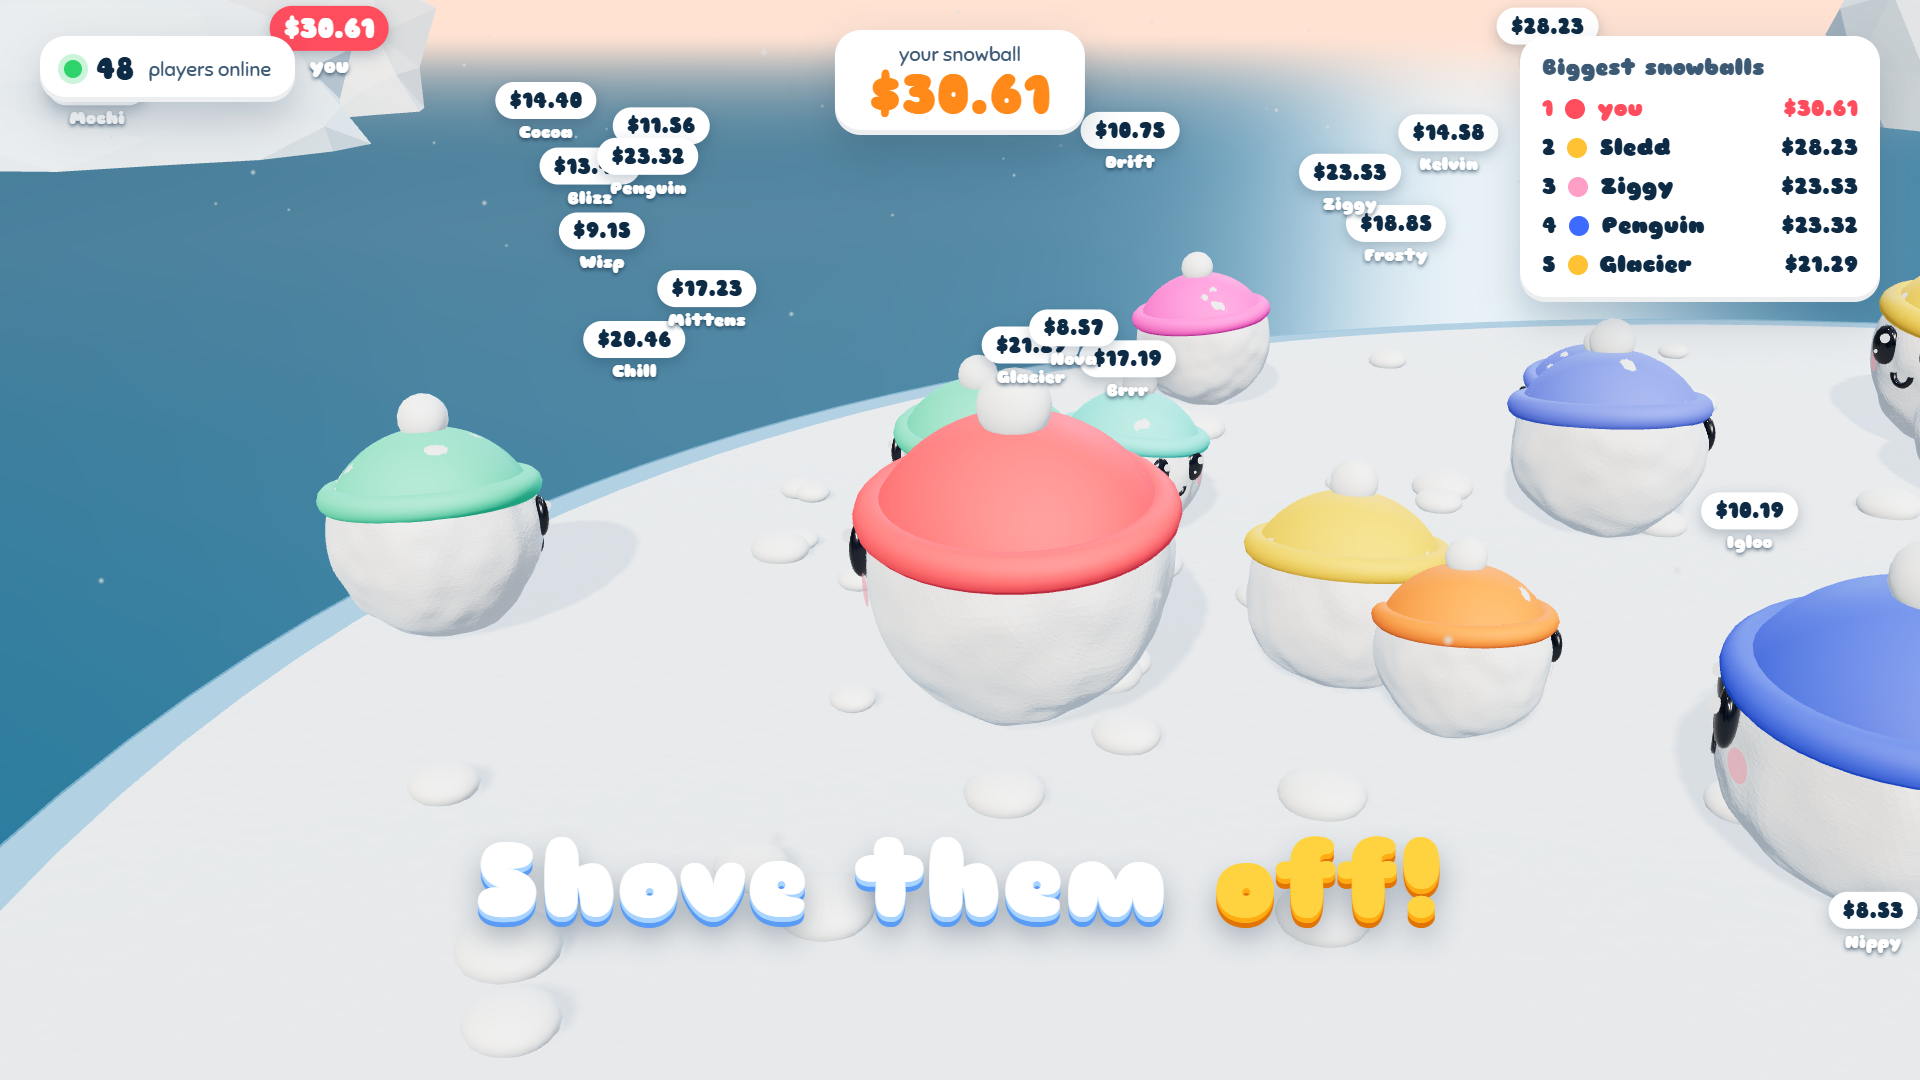
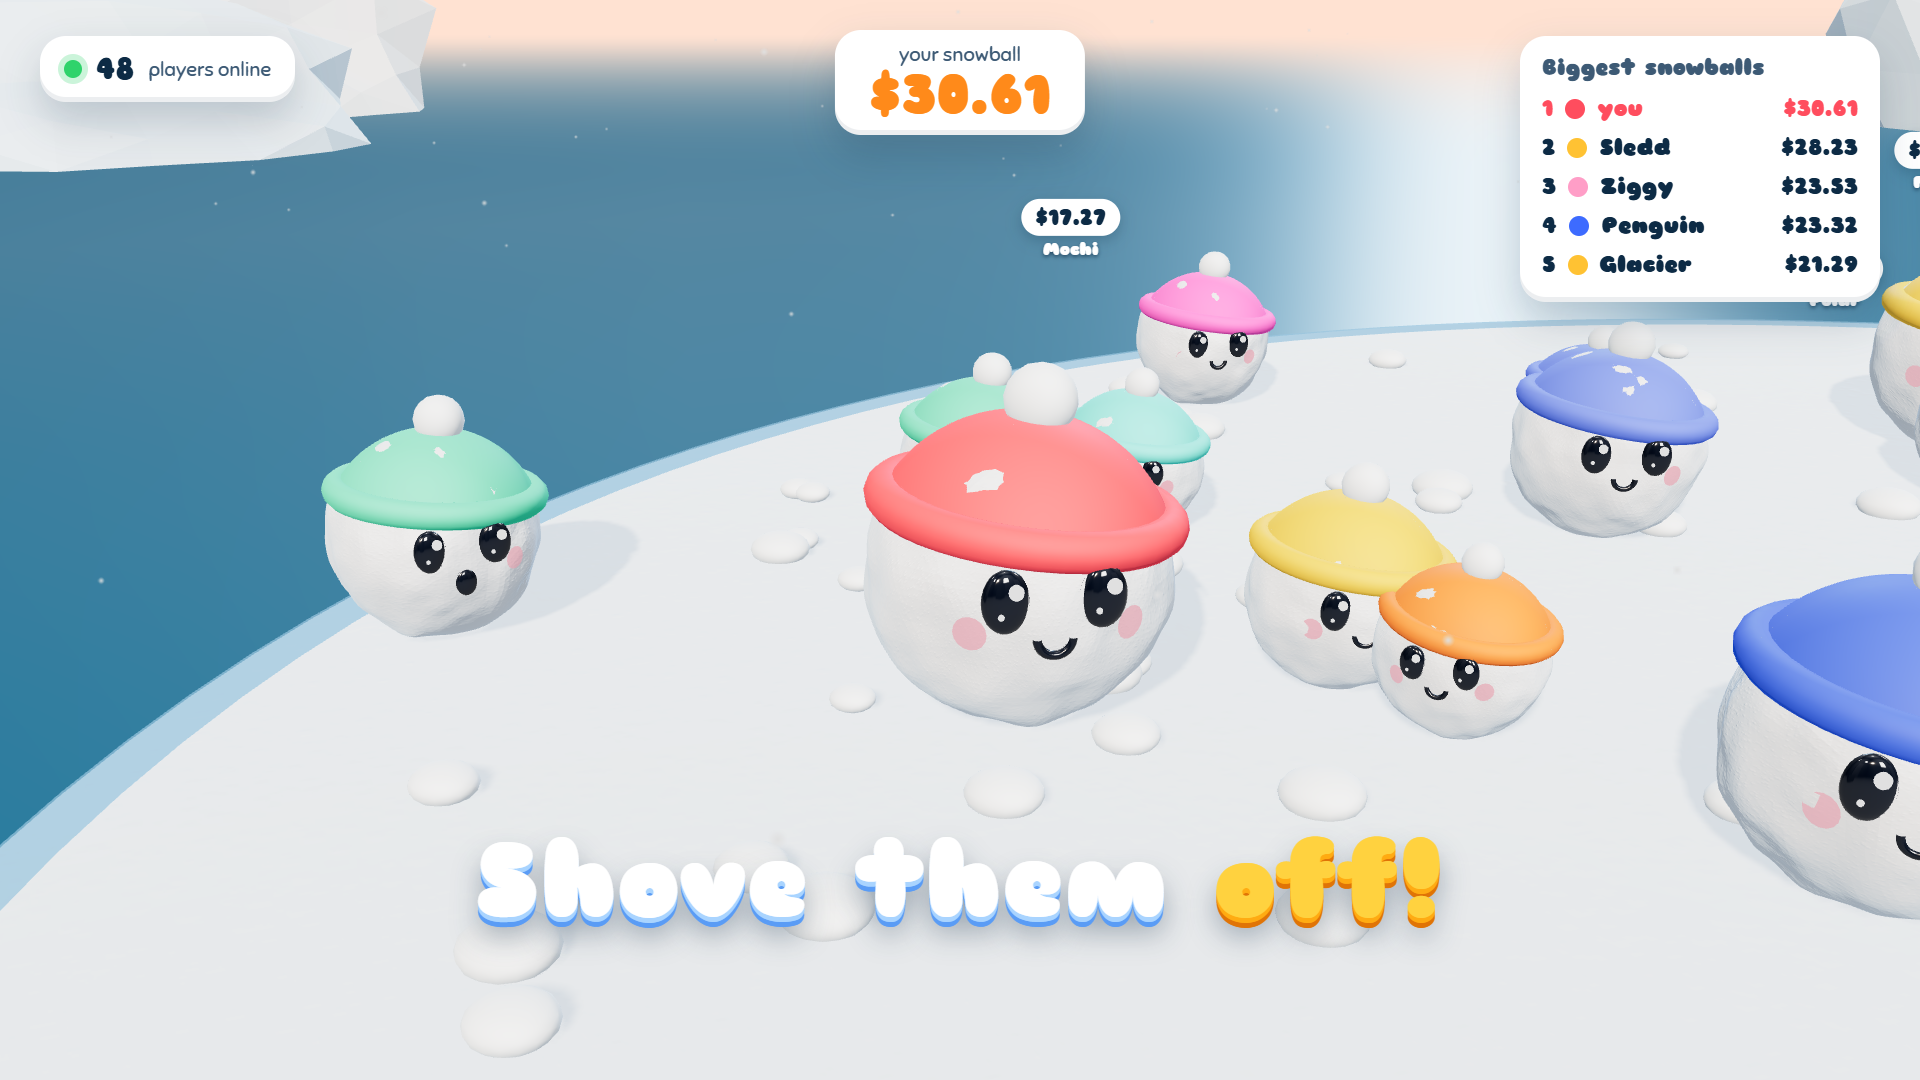
Snowfight film: faces toward camera, camera computed first, clean cash-out

diff --git a/video/film.html b/video/film.html
@@ -122,9 +122,18 @@ window.renderAt = (t) => {
   FR = FMAX - eio(lin(t, 19.2, 23.2)) * 9; floe.scale.set(FR, 1, FR);
   // piles: the ones you roll over vanish
   const me = mePos(t);
+  // ---- camera
+  let cp, ct;
+  if (t < 3.4) { const k = eio(lin(t, 0, 3.4)); cp = [Math.sin(k * .7 - .35) * 20, 7 + k * 4, Math.cos(k * .7 - .35) * 20 + 2]; ct = [0, 1.2, 1]; }
+  else if (t < 7.6) { const k = eio(lin(t, 3.4, 7.6)); cp = [lerp(Math.sin(.35) * 20, 0, k), lerp(11, 24, k), lerp(Math.cos(.35) * 20 + 2, 36, k)]; ct = [0, lerp(1.2, 0, k), lerp(1, -3, k)]; }
+  else if (t < 23.4) { const r = meR(t), sl = t > 14.9 && t < 16.2 ? .75 : 1; const off = [lerp(0, -8, lin(t, 14.2, 15.2)) * (t < 17 ? 1 : 1 - lin(t, 17, 18.5)), 5 + r * 2.2, 12 + r * 3.6];
+    const k0 = eio(lin(t, 7.6, 8.8)); const tgt = [me[0], 0, me[1] - 2]; cp = [lerp(0, me[0] + off[0], k0), lerp(24, off[1], k0), lerp(36, me[1] + off[2], k0)]; ct = [lerp(0, tgt[0], k0), lerp(0, r * .8, k0), lerp(-3, tgt[2], k0)];
+    if (t > 19.2) { const k = eio(lin(t, 19.2, 20.4)) * (1 - eio(lin(t, 22.6, 23.4))); cp = [lerp(cp[0], 0, k), lerp(cp[1], 30, k), lerp(cp[2], 32, k)]; ct = [lerp(ct[0], 0, k), lerp(ct[1], 0, k), lerp(ct[2], -3, k)]; } }
+  else { const r = meR(t), a = (t - 23.4) * .32 + .2; cp = [me[0] + Math.sin(a) * (11 + r * 3.5), 3.4 + r * 1.5, me[1] + Math.cos(a) * (11 + r * 3.5)]; ct = [me[0], r * 1.15, me[1]]; }
+  cam.position.set(...cp); cam.lookAt(...ct);
   PL.forEach((p, i) => { if (t > 7.6 && t < 14.2 && Math.hypot(p.x - me[0], p.z - me[1]) < meR(t) + .4 && p.gone > t) p.gone = t; });
   const dm = new THREE.Object3D(); PL.forEach((p, i) => { const s = p.gone <= t ? 0 : (Math.hypot(p.x, p.z) > FR - 1 ? 0 : p.s); dm.position.set(p.x, .12, p.z); dm.scale.set(s, s * .55, s); dm.updateMatrix(); piles.setMatrixAt(i, dm.matrix); }); piles.instanceMatrix.needsUpdate = true;
-  // players
+  // players (faces turn toward last frame's camera)
   let online = 0; const live = [];
   for (const o of P) { const g = o.g; let x, z, yaw, r = o.r0, y, vis = t >= o.join - .5, fallK = 0;
     if (o === ME) { [x, z, yaw] = me; r = meR(t); }
@@ -139,25 +148,17 @@ window.renderAt = (t) => {
     else y = lerp(18, 0, jk * jk);
     if (DROP.includes(o) && t >= 3.4 && t < o.join - .5) { vis = true; y = 0; }
     const land = DROP.includes(o) && t < 3.4 ? lin(t, .9 + DROP.indexOf(o) * .25, 1.3 + DROP.indexOf(o) * .25) : lin(t, o.join + .25, o.join + .6), sq = land > 0 && land < 1 ? Math.sin(land * Math.PI) * .22 : 0;
-    y += r * .95 - fallK * fallK * 9; g.visible = vis && fallK < 1; g.position.set(x, y, z); g.rotation.set(0, yaw, fallK * 2.2); g.scale.set(r * (1 + sq), r * (1 - sq), r * (1 + sq));
+    y += r * .95 - fallK * fallK * 9; g.visible = vis && fallK < 1; g.position.set(x, y, z); g.rotation.set(0, Math.atan2(cam.position.x - x, cam.position.z - z) + Math.sin(t * 1.3 + o.ph) * .25, fallK * 2.2); g.scale.set(r * (1 + sq), r * (1 - sq), r * (1 + sq));
     g.userData.spin.rotation.x = t * (o === ME ? 3 : o.sp * 2.4); g.userData.oh.visible = fallK > 0 || (o === VIC && t > 14.8); g.userData.smile.visible = !g.userData.oh.visible;
     if (g.visible && !fallK && t >= o.join) { online++; live.push({ o, r }); }
     // name + price tag
     const v = new THREE.Vector3(x, y + r * 2.15, z).project(cam), on = g.visible && v.z < 1 && Math.abs(v.x) < 1.05 && Math.abs(v.y) < 1.05 && t > 3.2;
-    o.tag.style.display = on ? '' : 'none'; if (on) { o.tag.style.transform = `translate(${(v.x * .5 + .5) * W}px,${(-v.y * .5 + .5) * H}px) translate(-50%,-100%)`; o.tag.firstChild.textContent = money(r); } }
+    const onT = on && (t < 23.4 || o === ME); o.tag.style.display = onT ? '' : 'none'; if (on) { o.tag.style.transform = `translate(${(v.x * .5 + .5) * W}px,${(-v.y * .5 + .5) * H}px) translate(-50%,-100%)`; o.tag.firstChild.textContent = money(r); } }
   // splash ring where Mochi went in
   splash.visible = t > 15.9 && t < 18.5; if (splash.visible) { const k = lin(t, 15.9, 18.5); splash.scale.setScalar(1 + k * 5); splash.material.opacity = .8 * (1 - k); }
   drops.forEach((d) => { const k = lin(t, 15.9, 17.3); d.m.visible = k > 0 && k < 1; d.m.position.set(-24.5 + d.vx * k * 4, -1.2 + d.vy * Math.sin(k * Math.PI) * 4, -18.6 + d.vz * k * 4); });
   confetti.forEach((c) => { const k = lin(t, 26.3 + c.d, 28.2 + c.d); c.m.visible = k > 0 && k < 1; const mp = mePos(t); c.m.position.set(mp[0] + c.vx * k * 6, 2 + c.vy * k * 9 - k * k * 12, mp[1] + c.vz * k * 6); c.m.rotation.set(k * 9 * c.vx, k * 7, k * 5); });
-  // ---- camera
-  let cp, ct;
-  if (t < 3.4) { const k = eio(lin(t, 0, 3.4)); cp = [Math.sin(k * .7 - .35) * 20, 7 + k * 4, Math.cos(k * .7 - .35) * 20 + 2]; ct = [0, 1.2, 1]; }
-  else if (t < 7.6) { const k = eio(lin(t, 3.4, 7.6)); cp = [lerp(Math.sin(.35) * 20, 0, k), lerp(11, 24, k), lerp(Math.cos(.35) * 20 + 2, 36, k)]; ct = [0, lerp(1.2, 0, k), lerp(1, -3, k)]; }
-  else if (t < 23.4) { const r = meR(t), sl = t > 14.9 && t < 16.2 ? .75 : 1; const off = [lerp(0, -8, lin(t, 14.2, 15.2)) * (t < 17 ? 1 : 1 - lin(t, 17, 18.5)), 5 + r * 2.2, 12 + r * 3.6];
-    const k0 = eio(lin(t, 7.6, 8.8)); const tgt = [me[0], 0, me[1] - 2]; cp = [lerp(0, me[0] + off[0], k0), lerp(24, off[1], k0), lerp(36, me[1] + off[2], k0)]; ct = [lerp(0, tgt[0], k0), lerp(0, r * .8, k0), lerp(-3, tgt[2], k0)];
-    if (t > 19.2) { const k = eio(lin(t, 19.2, 20.4)) * (1 - eio(lin(t, 22.6, 23.4))); cp = [lerp(cp[0], 0, k), lerp(cp[1], 30, k), lerp(cp[2], 32, k)]; ct = [lerp(ct[0], 0, k), lerp(ct[1], 0, k), lerp(ct[2], -3, k)]; } }
-  else { const r = meR(t), a = (t - 23.4) * .32 + .2; cp = [me[0] + Math.sin(a) * (11 + r * 3.5), 3.4 + r * 1.5, me[1] + Math.cos(a) * (11 + r * 3.5)]; ct = [me[0], r * 1.15, me[1]]; }
-  cam.position.set(...cp); cam.lookAt(...ct);
+
   sun.position.set(cam.position.x - 20, 30, cam.position.z + 16); sun.target.position.set(ct[0], 0, ct[2]);
   for (let i = 0; i < FL; i++) { const f = fseed[i]; let y = f[1] - t * 2.2 * f[3]; y = ((y % 50) + 50) % 50 - 2; fp[i * 3] = f[0] + cam.position.x; fp[i * 3 + 1] = y; fp[i * 3 + 2] = f[2] + cam.position.z - 30; } fg.attributes.position.needsUpdate = true;
   R.render(sc, cam);
@@ -166,12 +167,12 @@ window.renderAt = (t) => {
   const n = Math.round(lerp(0, 48, eo(lin(t, 3.4, 7.4)))) - (t > 19.6 ? Math.min(6, Math.floor((t - 19.6) / .55)) : 0); $('onN').textContent = Math.max(0, n); show('online', hudOn ? 1 : 0);
   const J = P.filter((o) => o !== ME && t >= o.join && t < o.join + 1.6).slice(-5); $('joins').innerHTML = t < 8 ? J.map((o) => `<div class="jn" style="opacity:${1 - lin(t, o.join + 1.2, o.join + 1.6)}"><i style="background:${o.col}"></i>${o.name}<small>joined</small></div>`).join('') : '';
   if (t >= 7.6 && t < 7.6 + 1.6) $('joins').innerHTML = `<div class="jn" style="background:#ff4d5e;color:#fff"><i style="background:#fff"></i>you<small style="color:#fff">joined</small></div>`;
-  live.sort((a, b) => b.r - a.r); const top = live.slice(0, 5); $('lbr').innerHTML = top.map((e, i) => `<div class="lr${e.o === ME ? ' me' : ''}"><span>${i + 1}</span><i style="background:${e.o.col}"></i>${e.o.name}<b>${money(e.r)}</b></div>`).join(''); show('lb', t > 8.6 && t < 27 ? 1 : 0);
+  live.sort((a, b) => b.r - a.r); const top = live.slice(0, 5); $('lbr').innerHTML = top.map((e, i) => `<div class="lr${e.o === ME ? ' me' : ''}"><span>${i + 1}</span><i style="background:${e.o.col}"></i>${e.o.name}<b>${money(e.r)}</b></div>`).join(''); show('lb', t > 8.6 && t < 23.4 ? 1 : 0);
   show('val', t > 8.2 && t < 27 ? 1 : 0); $('valN').textContent = money(meR(t));
   $('feed').innerHTML = KILLS.filter((k) => t >= k[0] && t < k[0] + 3.2).slice(-4).map((k) => `<div class="kf" style="opacity:${1 - lin(t, k[0] + 2.8, k[0] + 3.2)};transform:translateX(${(1 - eo(lin(t, k[0], k[0] + .3))) * 60}px)"><span class="${k[4] ? 'y' : ''}">${k[1]}</span> shoved ${k[2]} into the sea <em>${k[3]}</em></div>`).join('');
   const ck = lin(t, 23.8, 26.3); show('cash', t > 23.4 && t < 26.6 ? 1 : 0, `translateX(-50%) scale(${1 + (t > 26.1 && t < 26.4 ? .08 : 0)})`); $('ring').setAttribute('stroke-dashoffset', 201 * (1 - ck)); $('cashV').textContent = money(meR(t));
   const wk = lin(t, 26.3, 26.6); show('wal', wk * (1 - lin(t, 27.6, 27.9)), `translate(-50%,-50%) scale(${lerp(.6, 1, back(wk))})`);
-  const ci = CAPS.findIndex(([a, b]) => t >= a && t < b), cap = $('cap'); if (ci >= 0) { const [a, b, txt] = CAPS[ci]; if (cap.dataset.i != ci) { cap.innerHTML = txt; cap.dataset.i = ci; } const k = lin(t, a, a + .35), out = lin(t, b - .3, b); cap.style.opacity = k * (1 - out); cap.style.transform = `scale(${lerp(.7, 1, back(k)) * (1 - out * .2)})`; cap.style.top = (ci === 0 ? 700 : ci === 5 ? 200 : 830) + 'px'; } else cap.style.opacity = 0;
+  const ci = CAPS.findIndex(([a, b]) => t >= a && t < b), cap = $('cap'); if (ci >= 0) { const [a, b, txt] = CAPS[ci]; if (cap.dataset.i != ci) { cap.innerHTML = txt; cap.dataset.i = ci; } const k = lin(t, a, a + .35), out = lin(t, b - .3, b); cap.style.opacity = k * (1 - out); cap.style.transform = `scale(${lerp(.7, 1, back(k)) * (1 - out * .2)})`; cap.style.top = (ci === 0 ? 700 : ci === 5 ? 190 : 830) + 'px'; } else cap.style.opacity = 0;
   show('end', eo(lin(t, 27.8, 28.3)), `scale(${lerp(1.08, 1, eo(lin(t, 27.8, 28.6)))})`); $('end').querySelector('img').style.transform = `scale(${back(lin(t, 28.0, 28.6))}) rotate(${(1 - lin(t, 28, 28.6)) * -20}deg)`;
   show('flash', (1 - lin(t, 0, .3)) + (t > 26.25 && t < 26.6 ? (1 - lin(t, 26.25, 26.6)) * .7 : 0));
 };
